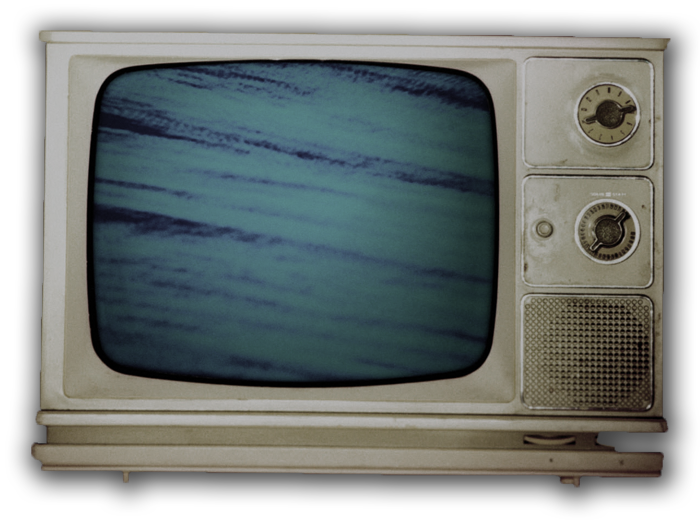
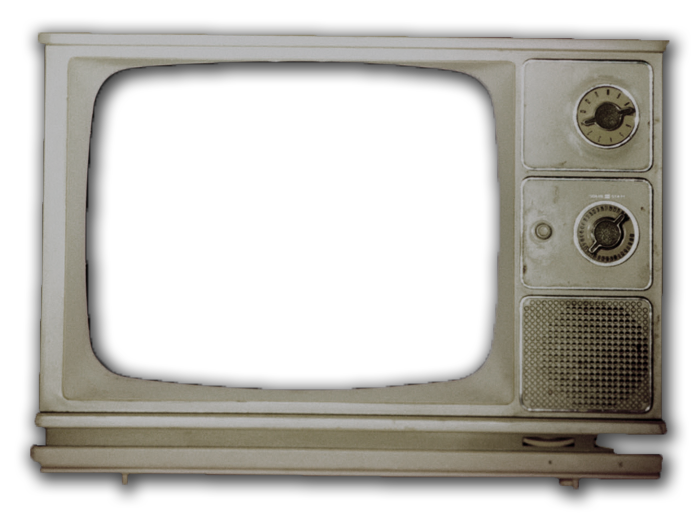
more tv stuff

diff --git a/javascripts/app.js b/javascripts/app.js
@@ -117,7 +117,7 @@ $(function(){
   function balloon() {
     var color = [ 'blue', 'green', 'purple' ][Math.floor(Math.random() * 3)];
     var size  = [ 32, 64, 128 ][Math.floor(Math.random() * 3)];
-    var balloon =  paper.image('/images/balloon-'+color+'-256.png', Math.floor(Math.random() * 960), 960+size, size, size);
+    var balloon =  paper.image('/images/balloon-'+color+'-256.png', Math.floor(Math.random() * 704) + 256, 960+size, size, size);
     balloon.toBack();
     balloon.animate({y: -1 * size}, 20000, '<', function() { balloon.remove() } );
   }
@@ -145,25 +145,32 @@ $(function(){
 
     this.enlarged = false;
     
-    var element = $('#tv');
+    var element = $('#tv, #tv_screen, #tv_canvas');
 
     this.show = function() {
-      element.attr('src', '/images/tv-large-light.png');
-      element.animate({
+      $('#tv').attr('src', '/images/tv-large-light.png');
+      $('#tv, #tv_screen').animate({
         width: '700px',
         height: '520px',
         top: '32px',
         left: '130px',
-        'z-index': 10000
-      }, 100);
+      }, 100, function() { 
+        $('#tv_canvas').fadeIn(100);
+      });
+
+      $('#tv').css({ 'z-index': 10000 });
+      $('#tv_canvas').css({ 'z-index': 9999 });
+      $('#tv_screen').css({ 'z-index': 9998 });
+
       $('html, body').animate({scrollTop:0}, 100);
       theShoppingCart.hide();
       $this.enlarged = true;
     };
 
     this.hide = function() {
-      element.attr('src', '/images/tv-small-dark.png');
-      element.animate({
+      $('#tv').attr('src', '/images/tv-small-dark.png');
+      $('#tv_canvas').hide();
+      $('#tv, #tv_screen').animate({
         width: '339px',
         height: '250px',
         top: '602px',
@@ -173,7 +180,7 @@ $(function(){
       $this.enlarged = false;
     };
 
-    element.css({
+    $('#tv, #tv_screen').css({
       width: '339px',
       height: '250px',
       top: '602px',
@@ -269,7 +276,7 @@ $(function(){
   });
 
   $('#background_wrapper').css({ 'z-index': 0 });
-  $('#cover').css({ 'z-index': 1 });
+  $('#cover').css({ 'z-index': 3 });
   $('#playlist').css({ 'z-index': 4 });
   $('#paper_wrapper').css({ 'z-index': 3 });
 

diff --git a/index2.html b/index2.html
@@ -104,6 +104,17 @@
         </div>
         <div class="parallax-layer" style="width: 930px; height: 930px;">
           <div id="tv_wrapper">
+            <img id="tv_screen" src="/images/tv-screen.png" alt="" style="z-index: 9998; position: absolute;"/>
+            <div id="tv_canvas">
+              <h2 style="padding: 16px 32px; text-align:center;">ELIAS MONIKER: THE A.K.A.</h2>
+              <p>Elias Moniker is Teejay VanSlyke.</p>
+              <p>Mixing assistance and mastering by Jeremy Highhouse.</p>
+              <p>Illustrations by Chase Velarde.</p>
+              <p>Hans Grüvendorfer played by Brennan Novak.</p>
+              <p>Without the continuous support of the following people, this production would not have been possible:</p>
+              <p>Alexander Black, Brennan Novak, Nicholaus Ames, Ryan Mauk, Chris Davidson, Alex Weber, Timothy Scaffidi, Sage Howes, Tim & Jean VanSlyke, Adam VanSlyke.</p>
+              <p>Copyright 2011 BOP.fm. Unauthorized reproduction is prohibited. If you do make copies, at least share them with your friends.</p>
+            </div>
             <img id="tv" src="/images/tv-small-dark.png" alt="" style="position: absolute;"/>
           </div>
         </div>

diff --git a/style.css b/style.css
@@ -238,3 +238,14 @@ dd          { margin-left: 1.5em; }
   text-align: center;
   padding-top:200px;
 }
+
+#tv_canvas {
+  position: absolute;
+  width: 430px;
+  height: 330px;
+  left: 200px;
+  top: 92px;
+  z-index: 9999;
+
+  display: none;
+}
